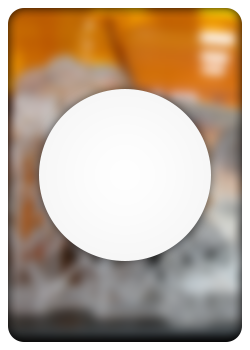
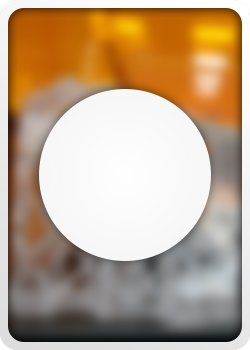
lots of things...

diff --git a/src/components/Innovacio.js b/src/components/Innovacio.js
@@ -21,14 +21,14 @@ export const Innovacio=(props)=>{
                                 </Link>  
                             </div>              
                         </div>*/
-                        <Box key={index} hatlapImage={require('./assets/card-back-' + String(i[1].kod).toLowerCase() + '.png')} hatlap={
+                        <Box key={index} hatlapImage={require('./assets/card-back-' + String(i[1].kod).toLowerCase() + '.png')} elolapImage={require('./assets/card-front-' + String(i[1].kod).toLowerCase() + '.png')} hatlap={
                             <img src={require('./assets/innovacio/' + i[1].kod + '/logo.png')} alt="kep1" style={{width:"50%"}} />
                         } id={"box"+index} adatok={
                             <React.Fragment>
                                 <h2>{i[1].nev}</h2>
-                                <Link to={"/innovacio/" + i[1].kod}>
-                                    <p>Tovább...</p>
-                                </Link>  
+                                <Link to={"/innovacio/" + i[1].kod} className="darklink">
+                                    <p><span className="read-more">Tovább</span></p>
+                                </Link>
                             </React.Fragment>
                         } />
                     )

diff --git a/src/components/Footer.js b/src/components/Footer.js
@@ -24,10 +24,10 @@ export const Footer=(props)=> {
                         <p><b>OM azonosító:</b><br/>{props.contactData.omid}</p>        
                     </Col>
                     <Col lg={4} className="footer-col footer-col-second">
-                        <p className="footer-kt"><b>E-mail:</b></p>
-                        <p>{props.contactData.name1} - {props.contactData.email1}</p>
+                        <p><b>E-mail:</b><br/>{props.contactData.email1}</p>
+                        {/* <p>{props.contactData.name1} - {props.contactData.email1}</p>
                         <p>{props.contactData.name2} - {props.contactData.email2}</p>
-                        <p>{props.contactData.name3} - {props.contactData.email3}</p>
+                        <p>{props.contactData.name3} - {props.contactData.email3}</p> */}
                         <p style={{marginBottom:'0px'}}>Copyright &copy; KSZC Kandó 2016-2020. Minden&nbsp;Jog&nbsp;Fenntartva.</p>
                         <p style={{fontSize:'95%'}}>Weboldalt készítette: Kátay Magdolna, Varga Brigitta, Sata Erik</p>
                     </Col>

diff --git a/src/components/InfoPanel.js b/src/components/InfoPanel.js
@@ -118,7 +118,7 @@ export const InfoPanel = (props) => {
                     <Row key={props.id} ref={sectionRef} className={rowClass + " sidebyside" + (props.reverse===true?" reverse-order":"")} style={{marginTop:margins2,marginBottom:margins2}}>
                         <Col lg={5} className={"info-row-szoveg align-self-center fade-int "+props.id}>
                             <h2>{props.title}</h2>
-                            <p>{props.text}<span className="moretext">{props.moretext.map((i,index)=><React.Fragment key={'moretext'+index}><br/>{i}</React.Fragment>)}</span></p>
+                            <p>{props.text}<span className="moretext">{props.moretext.map((i,index)=><React.Fragment key={'moretext'+index}>{(props.text===undefined||props.text==='')?null:<br/>}{i}</React.Fragment>)}</span></p>
                         </Col>
                         <Col className={"info-row-kep info-row-panorama fade-int "+props.id}>
                             <SphereView id={props.index} hely="gyakorlat helyszínének" image={props.panoimg} loadImage={props.loadImage} />

diff --git a/src/components/CarouselDualis.js b/src/components/CarouselDualis.js
@@ -2,7 +2,6 @@ import React from 'react';
 import { Carousel } from 'react-bootstrap';
 import {Link} from "react-router-dom";
 import './MyCarousel.css';
-import Truncate from 'react-truncate';
 
 export const CarouselDualis=(props)=>{
     return (
@@ -17,9 +16,7 @@ export const CarouselDualis=(props)=>{
                         <img src={i[0]} alt="kep1" />
                         <Carousel.Caption>
                             <Link to={"/dualis/" + i[1].kod}><h2>{i[1].nev}</h2></Link>
-                            <Truncate lines={1} ellipsis={<>...<br /><Link to={"/dualis/" + i[1].kod}><span className="read-more">Tovább</span></Link></>}>
-                                {/*<p>Leírás</p>*/}
-                            </Truncate>
+                            <Link to={"/dualis/" + i[1].kod}><span className="read-more">Tovább...</span></Link>
                         </Carousel.Caption>
                     </Carousel.Item>
                 );

diff --git a/src/components/Box.js b/src/components/Box.js
@@ -20,9 +20,11 @@ export const Box=(props)=> {
                         </div>
                     </div>
                 </div>
-                <div style={{padding:'1rem'}}>
-                    <div>
-                        {props.adatok}
+                <div style={{width:'100%',height:'100%',padding:'1rem',backgroundImage:'url('+props.elolapImage+')'}}>
+                    <div className="row justify-content-center" style={{height:'100%'}}>
+                        <div className="col align-self-center">
+                            {props.adatok}
+                        </div>
                     </div>
                 </div>
             </ReactCardFlip>

diff --git a/src/components/Box.css b/src/components/Box.css
@@ -24,7 +24,7 @@
 .react-card-front, .react-card-back{
     /* background-color:rgba(0,0,0,0.65); */
     background-size: 100% 100%;
-    color:white;
+    color:black !important;
     /* padding:1rem; */
     border-radius: 1rem;
     overflow:hidden;
@@ -34,5 +34,5 @@
     /* background-image:url('./assets/card-back.png'); */
 }
 .react-card-back{
-    background-image:url('./assets/0.jpg');
+    /* background-image:url('./assets/0.jpg'); */
 }

diff --git a/src/components/MyCarousel.css b/src/components/MyCarousel.css
@@ -115,11 +115,16 @@
     left:0;
     width:0%;
     height:100%;
-    background-color:rgba(255,255,255,0.35);
     border-radius:0.125rem;
     z-index:0;
     opacity:0.0;
     transition:width 0.25s, opacity 0.5s;
+}
+a:not(.darklink) .read-more::after{
+    background-color:rgba(255,255,255,0.35);
+}
+a.darklink .read-more::after{
+    background-color:rgba(0,0,0,0.25);
 }
 .read-more:hover::after{
     opacity:1.0;

diff --git a/src/components/Footer.css b/src/components/Footer.css
@@ -27,10 +27,10 @@
     background-color:#343a40;
     padding:calc(var(--footer-padding) + 1rem) 2rem 0 2rem;
 }
-/*@media (min-width: 992px) {*/
+/*@media (min-width: 992px) {
     .footer-col-second p.footer-kt{
         margin:0 0 calc(var(--footer-padding) / 2) 0 !important;
-    }
+    }*/
 .footer-col{
     padding:0 !important;
 }

diff --git a/src/App.css b/src/App.css
@@ -1,6 +1,3 @@
-/*:root{
-    --fullh:calc(var(--vh) * 100);
-}*/
 html[smooth=true]{
     scroll-behavior: smooth;
 }
